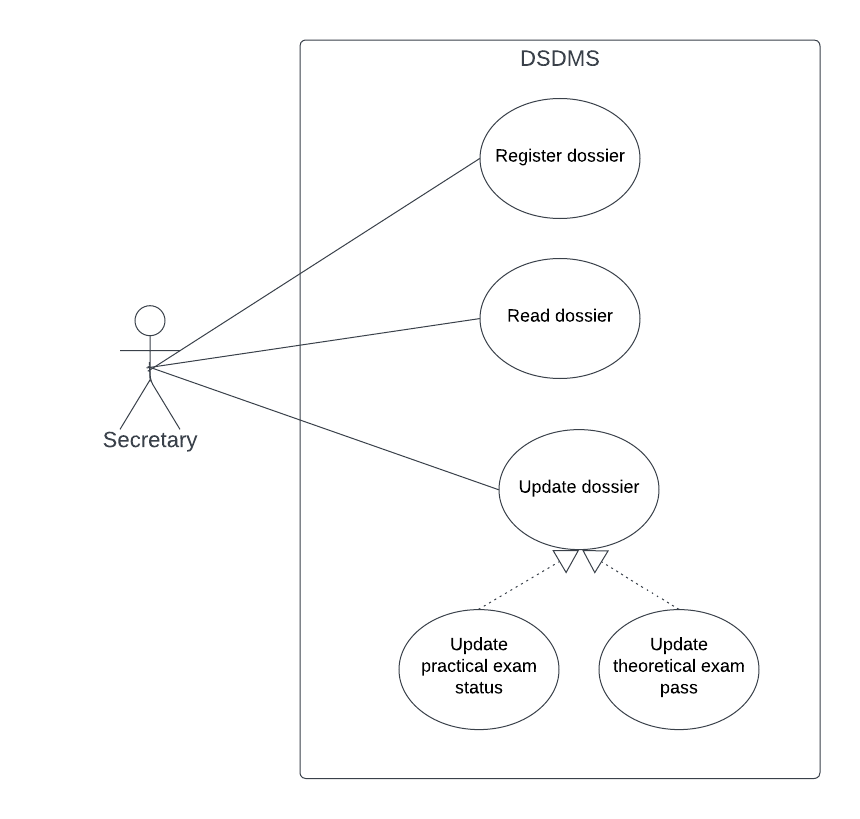
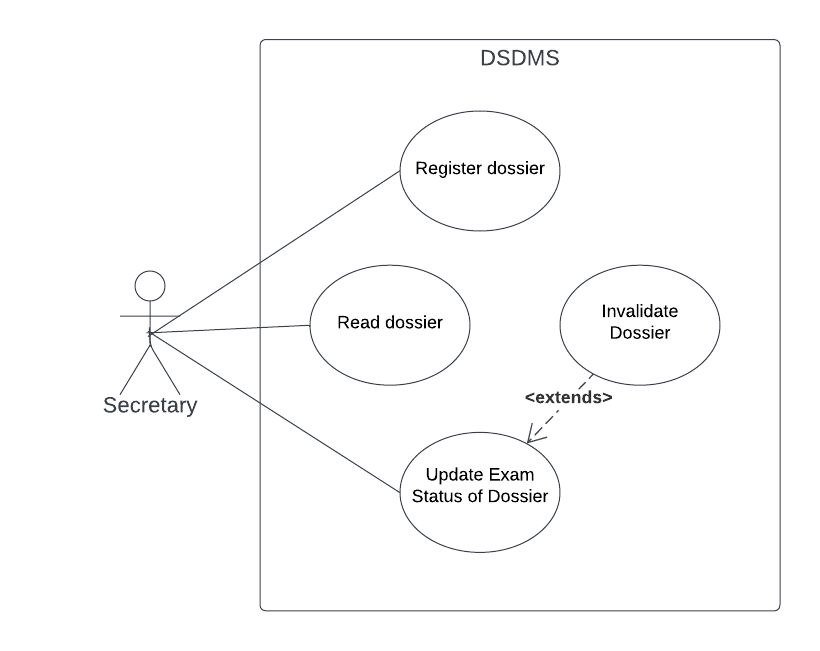
docs: fix documentation errors

diff --git a/docs/report/AnalisiDominio/UbiquitousLanguage.md b/docs/report/AnalisiDominio/UbiquitousLanguage.md
@@ -11,27 +11,25 @@ Durante le fasi iniziali di sviluppo, per favorire la comunicazione tra esperti 
 
 Questo ha permesso di ottenere il seguente dizionario dei termini (successivamente utilizzati all'interno di tutte le fasi di sviluppo):
 
-| Termine                                | Traduzione                        | Definizione                                                                                                                                 |
-|----------------------------------------|-----------------------------------|---------------------------------------------------------------------------------------------------------------------------------------------|
-| Iscritto                               | Subscriber                        | Una persona che si iscrive in autoscuola. Viene associato ad uno o più dossier, di cui solamente uno valido in un certo momento.            |
-| Istruttore                             | Instructor                        | Un impiegato dell'autoscuola. Gestisce Driving Lessons con i Subscriber.                                                                    |
-| Veicolo                                | Vehicle                           | Mezzo con cui un Instructor esegue Driving Lesson.                                                                                          |
-| Esame Teorico                          | Theoretical Exam                  | Esame teorico effettuato da un Subscriber.                                                                                                  |
-| Esame Pratico                          | Practical Exam                    | Esame ottenuto da un Subscriber, a bordo di un Vehicle insieme ad un Instructor.                                                            |
-| Guida                                  | Driving Lesson                    | Concordate tra Subscriber e Instructor. Univocamente associate ad un Subscriber, un Instructor ed un Vehicle.                               |
-| Dottore                                | Doctor                            | Registra visite mediche a ciascun Subscriber, necessaria per conseguire il Theoretical Exam. Consente di ottenere un Theoretical Exam Pass. |
-| Segretario                             | Secretary                         | Impiegato/a interno/a dell'autoscuola. Lavora solo in ufficio o a contatto con il pubblico.                                                 |
-| Slot di guida                          | Driving Slot                      | Fascia oraria occupata ad una Driving Lesson o da un Practical Exam. Univocamente associato con un Subscriber, un Instructor ed un Vehicle. |
-| Visita                                 | Doctor Slot                       | Fascia oraria occupata per eseguire la visita col dottore, da parte di un Subscriber.                                                       |
-| Pratica                                | Dossier                           | Insieme di informazioni riguardanti un singolo Subscriber.                                                                                  |
-| Foglio rosa                            | Provisional License               | Documento assegnato ad un Subscriber dopo il passaggio del Theoretical Exam, necessario per iscriversi al Practical Exam.                   |
-| Programmazione delle guide             | Driving lessons scheduling        | Insieme di Driving Slots in una certa data.                                                                                                 |
-| Coda delle visite                      | Doctor scheduling                 | Insieme di Doctor Slots in una certa data e fascia oraria (che coincide con gli orari di disponibilità del dottore).                        |
-| Appello d'esame                        | Exam appeal                       | Un appello per un Theoretical Exam, associato a più Dossier.                                                                                |
-| Completamento di esame Pratico/Teorico | Practical/Theoretical exam status | Un flag, che consenta di determinare con certezza lo stato del Dossier di un Subscriber                                                     |
-| Registro esame teorico                 | Theoretical exam pass             | Assegnato ad un Subscriber che abbia completato la visita col dottore, necessario per conseguire il Theoretical Exam.                       |
-| Giorno d'esame pratico                 | Practical Exam Day                | Identificativo dei giorni in cui è possibile inserire dei Driving Slots per effettuare Practical Exams.                                     |
-| Guida pratica regolare                 | Regular driving slot              | Identificativo delle guide pratiche regolari (che non rappresentano un esame pratico)                                                       |
-| Guida d'esame                          | Exam driving slot                 | Identificativo delle guide pratiche, rappresentanti un esame pratico di guida                                                               |
-| Evento di approvazione del dottore     | Doctor approval event             | Un evento quando il dottore approva lo stato del salute del iscritto permetendo la creazione del registro esame teorico                     |  
- | Evento d'esame                         | Exam event                        | Un evento d'esame che provoca una modifica della pratica                                                                                    |  
+| Termine                         | Traduzione                 | Definizione                                                                                                                                 |
+|---------------------------------|----------------------------|---------------------------------------------------------------------------------------------------------------------------------------------|
+| Iscritto                        | Subscriber                 | Una persona che si iscrive in autoscuola. Viene associato ad uno o più dossier, di cui solamente uno valido in un certo momento.            |
+| Istruttore                      | Instructor                 | Un impiegato dell'autoscuola. Gestisce Driving Lessons con i Subscriber.                                                                    |
+| Veicolo                         | Vehicle                    | Mezzo con cui un Instructor esegue Driving Lesson.                                                                                          |
+| Esame Teorico                   | Theoretical Exam           | Esame teorico effettuato da un Subscriber.                                                                                                  |
+| Esame Pratico                   | Practical Exam             | Esame ottenuto da un Subscriber, a bordo di un Vehicle insieme ad un Instructor.                                                            |
+| Guida                           | Driving Lesson             | Una lezione di guida. Concordata tra Subscriber e Instructor.                                                                               |
+| Dottore                         | Doctor                     | Registra visite mediche a ciascun Subscriber, necessaria per conseguire il Theoretical Exam. Consente di ottenere un Theoretical Exam Pass. |
+| Segretario                      | Secretary                  | Impiegato/a interno/a dell'autoscuola. Lavora solo in ufficio o a contatto con il pubblico.                                                 |
+| Slot di guida                   | Driving Slot               | Fascia oraria occupata ad una Driving Lesson o da un Practical Exam. Univocamente associato con un Subscriber, un Instructor ed un Vehicle. |
+| Visita                          | Doctor Slot                | Fascia oraria occupata per eseguire la visita col dottore, da parte di un Subscriber.                                                       |
+| Pratica                         | Dossier                    | Insieme di informazioni riguardanti un singolo Subscriber.                                                                                  |
+| Foglio rosa                     | Provisional License        | Documento assegnato ad un Subscriber dopo il passaggio del Theoretical Exam, necessario per iscriversi al Practical Exam.                   |
+| Appello d'esame                 | Exam appeal                | Un appello per un Theoretical Exam, associato a più Dossier.                                                                                |
+| Stasus d'esame                  | Exam status                | Una sezione del Dossier che documenta i progressi negli esami.                                                                              |
+| Registro esame teorico          | Theoretical exam pass      | Assegnato ad un Subscriber che abbia completato la visita col dottore, necessario per conseguire il Theoretical Exam.                       |
+| Giorno d'esame pratico          | Practical Exam Day         | Identificativo dei giorni in cui è possibile inserire dei Driving Slots per effettuare Practical Exams.                                     |
+| Guida pratica regolare          | Regular driving slot       | Identificativo delle guide pratiche regolari (che non rappresentano un esame pratico)                                                       |
+| Guida d'esame                   | Exam driving slot          | Identificativo delle guide pratiche, rappresentanti un esame pratico di guida                                                               |
+| Evento di approvazione del dottore | Doctor approval event      | Un evento quando il dottore approva lo stato del salute del iscritto permetendo la creazione del registro esame teorico                     |  
+ | Evento d'esame                  | Exam event                 | Un evento d'esame che provoca una modifica della pratica                                                                                    |  

diff --git a/docs/report/Requisiti/Requisiti.md b/docs/report/Requisiti/Requisiti.md
@@ -31,14 +31,15 @@ Dalla precedente analisi del dominio che è stata effettuata possiamo rilevare i
 - registrare un Dossier valido ed esistente, all'interno di un Exam Appeal;
 - aggiornare o creare Theoretical Exam Pass o Provisional License;
 - registrare e leggere Doctor Slot;
-- selezionare e leggere Practical Exam Day;
+- registrare il risultato della visita da Dottore
+- definire e leggere Practical Exam Day;
 
 ## Requisiti funzionali
 I requisiti funzionali riguardano le funzionalità che il sistema deve mettere a disposizione all’utente. Per la loro definizione è necessario basarsi sui requisiti utente estratti in precedenza.
 
-Sono stati identificati i seguenti requisiti funzionali, per i diversi Bounded Contexts individuati nella precedente fase di analisi del dominio: Exam Context, Driving Context e Dossier Context.
+Sono stati identificati i requisiti funzionali e sono stati suddivisi in tre categorie: Dossier, Exam, Driving
 
-### Dossier Context
+### Dossier 
 - dopo la seconda scadenza del Provisional License (limitatamente a un singolo Dossier), il dossier deve essere invalidato;
 - un dossier invalidato non deve essere utilizzabile su alcun processo effettuato dall'utente, ma viene mantenuto col solo scopo di condurre analisi future;
 - un subscriber può avere più dossier a lui collegati, ma solamente uno valido in un dato momento;
@@ -46,24 +47,22 @@ Sono stati identificati i seguenti requisiti funzionali, per i diversi Bounded C
 
 Optional: un dossier può essere invalidato manualmente, tramite una chiamata ad API
 
-### Exam Context
-- ciascun dossier può avere un'unica Provisional License valida in un dato momento;
+### Exam 
+- ciascun dossier può avere un'unica Provisional License in un dato momento;
 - per poter inserire un Dossier in un Exam Appeal è necessario un Theoretical Exam Pass valido;
 - l'ottenimento di un Theoretical Exam Pass, avviene conseguentemente alla visita col Dottore;
 - ciascun Theoretical Exam Pass permette l'iscrizione a massimo due Exam Appeal, nell'arco di sei mesi di validità;
 - per consentire l'inserimento di un Driving Slot (relativo a Driving Lessons o Practical Exams), è necessario un Provisional License valido;
 - ciascun Provisional License permette l'iscrizione a massimo tre Practical Exam, entro un anno di validità;
-- il Dossier Context, dovrà essere notificato di ciascuna scadenza del Provisional License
 - il Provisional license viene fornito dopo il successo del Theoretical exam;
 
-### Driving Context
+### Driving
 - ogni Driving Slot, in una fascia oraria è univocamente associato a un Dossier, un Instructor e un Vehicle;
 - ciascun Driving Slot può rappresentare un Practical Exam o una Driving Lesson;
 - ciascun Dossier può riservare un Driving slot alla volta;
 - per poter inserire un Driving Slot, è necessario verificare la validità della Provisional License
 - è possibile inserire un Driving Slot relativo a Practical Exam, solo in un Practical Exam Day;
 
-Optional: un Vehicle dopo un certo numero di Driving Slot a lui associati, dovrà procedere a un controllo.
 
 ## Requisiti non funzionali
 I requisiti non funzionali riguardano le funzionalità che il sistema non deve necessariamente possedere per fare in modo che sia funzionante e corretto.
@@ -79,5 +78,5 @@ I requisiti implementativi previsti dal Driving School Distributed Management So
 - le componenti software del sistema saranno programmate in linguaggio Kotlin;
 - il software deve essere basato sull'architettura di base dei Microservizi;
 - le API (Application Programming Interface) fornite da ciascun microservizio, dovranno essere di tipo REST;
-- il deployment di ciascun microservizio, dovrà avvenire mediante l'utilizzo di Container Docker;
+- il deployment di ciascun microservizio, dovrà essere possibile mediante l'utilizzo di Container Docker;
 - il testing del sistema dovrà avvenire mediante Acceptance Testing;

diff --git a/docs/report/AnalisiDominio/UseCases.md b/docs/report/AnalisiDominio/UseCases.md
@@ -19,7 +19,7 @@ Per favorire le successive fasi di razionalizzazione e progettazione, i termini 
 Il diagramma visualizzato in <a href="#fig1"> Figura 1 </a>, mostra il caso d'uso relativo alla gestione del Dossier. Un Dossier contiene tutte le informazioni di base (ad esempio nominativo, codice fiscale, numero ti fogli rosa) di un Iscritto.
 L'attore che svolge le operazioni è identificato come Segretario: tutte le operazioni visibili sono infatti svolte dopo esplicite richieste degli iscritti.
 
-In particolare la procedura di **Update dossier** generalizza alcune operazioni più specifiche: aggiornamento sul completamento di esami pratici/teorici.
+In particolare la procedura di **Update Exam Status of Dossir** specifica aggiornamento sul completamento di esami pratici/teorici. In caso invalidazione di due fogli rossa dossier deve essere invalidato
 
 <div align="center">
       <img id="fig2" src="img/use_driving.png" >
@@ -51,6 +51,7 @@ Anche in questo caso, la registrazione all'appello d'esame necessita di un contr
 </div>
 
 L'ultimo diagramma presente, <a href="#fig4"> Figura 4 </a>, mette in risalto la gestione degli esami pratici, da parte del Segretario:
+- registra un nuovo foglio rossa
 - registra uno slot di guida, relativo a un esame pratico. L'*include* evidenzia alcune operazioni necessarie per l'esistenza di questo caso d'uso: verifica sul giorno d'esame, sulla validità del foglio rosa e sul minimo numero di guide effettuate necessarie
-- aggiorna il foglio rosa dell'iscritto, successivamente alla lettura del dossier
+- aggiorna il numero di tentativi dell'esame pratico referiti al foglio rosa dell'iscritto
 - seleziona il giorno d'esame tra quelli disponibili
